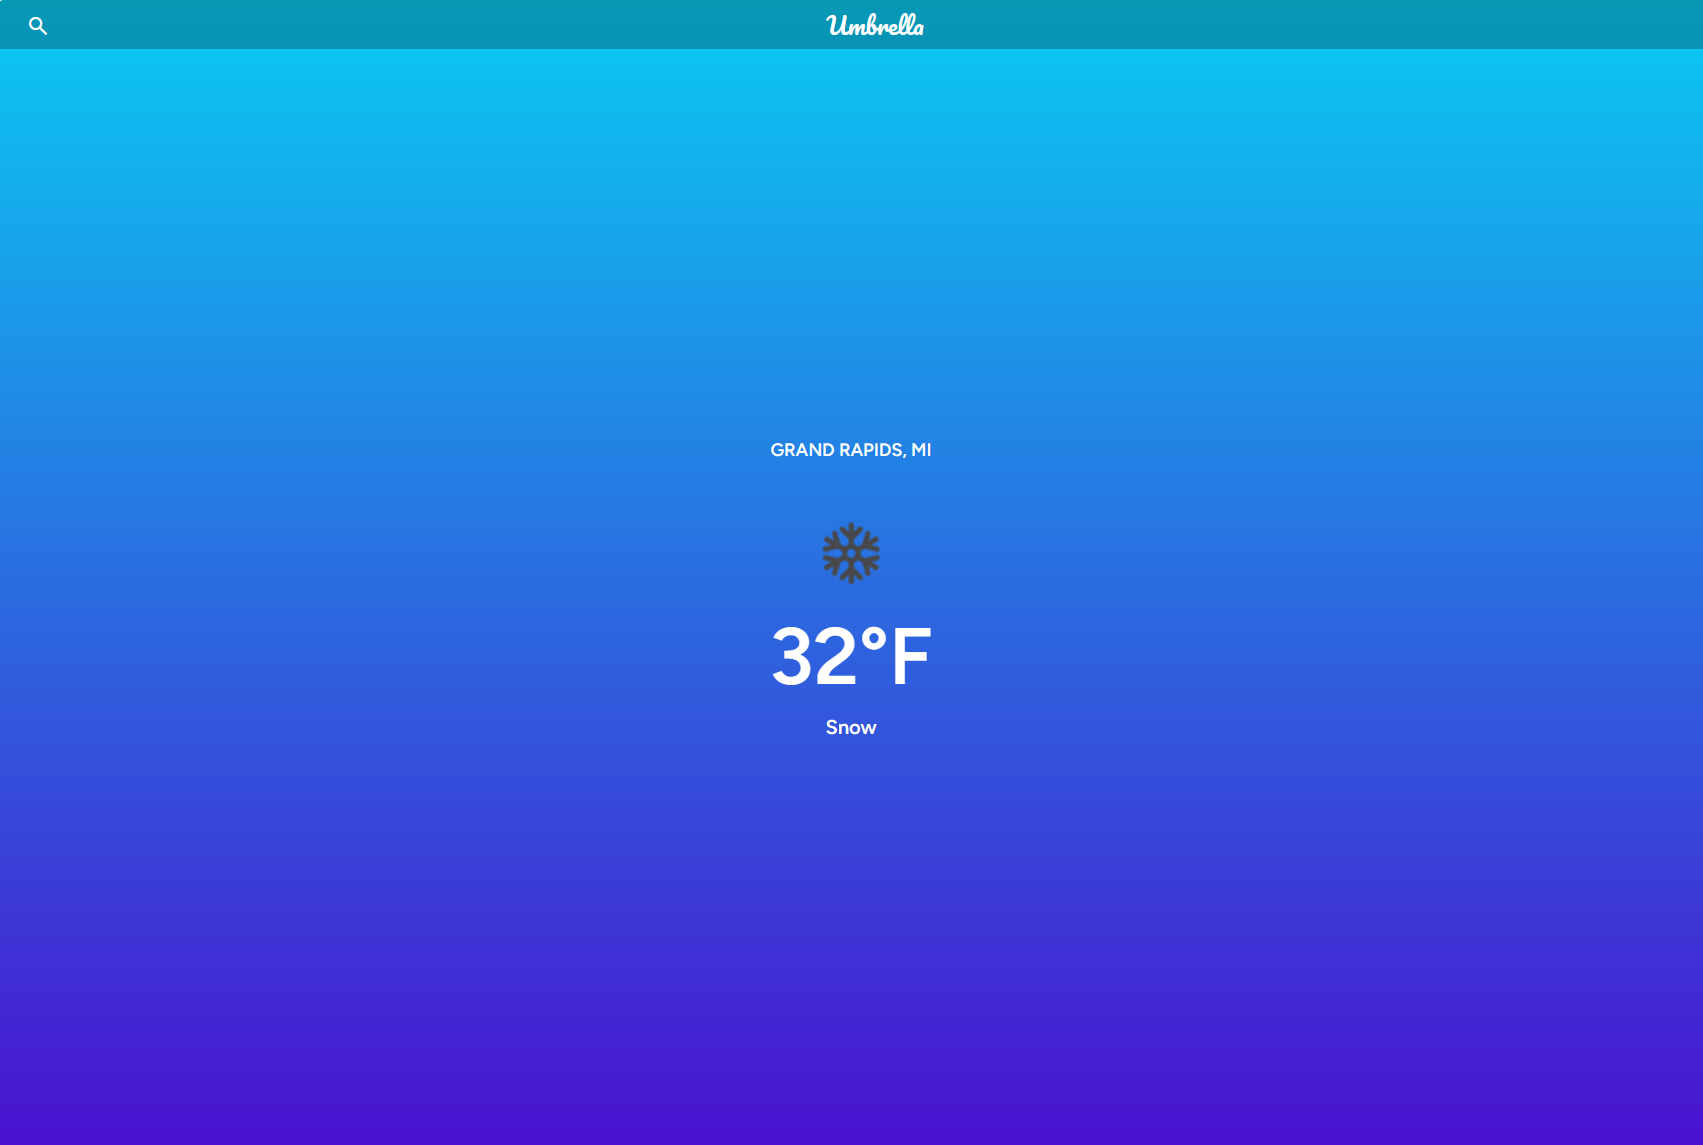
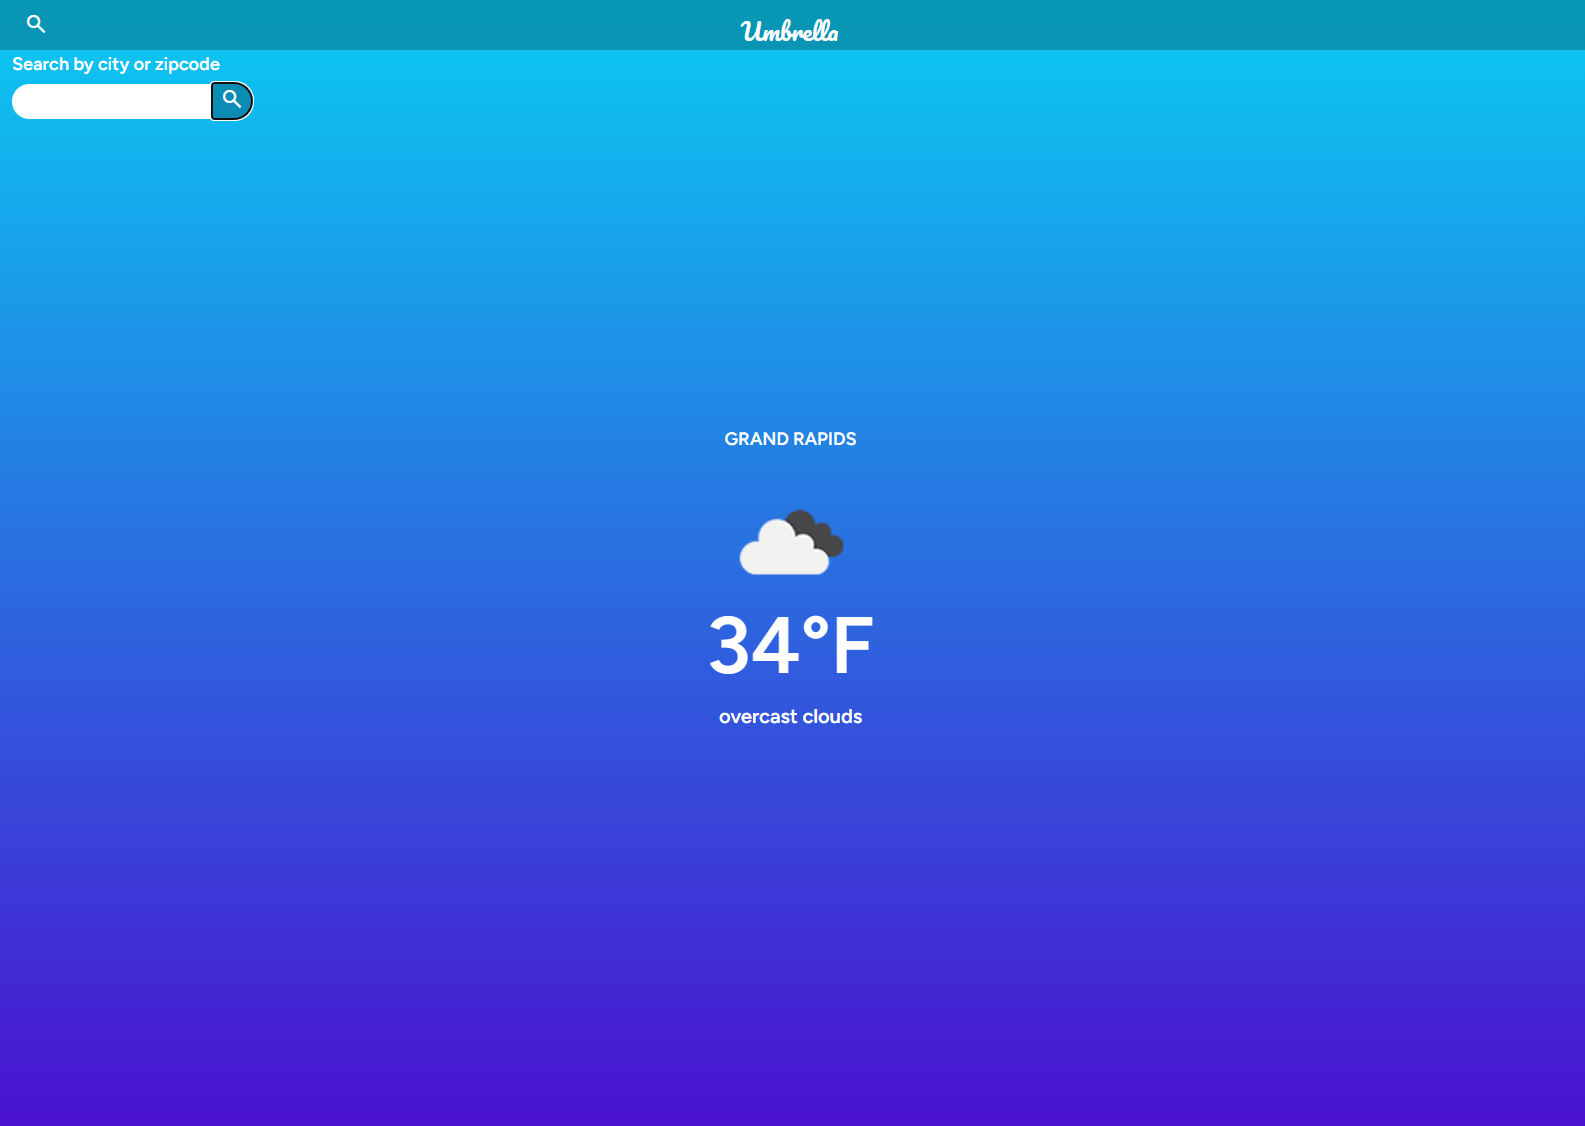
Added new project

diff --git a/src/components/Portfolio.jsx b/src/components/Portfolio.jsx
@@ -1,23 +1,30 @@
 function Portfolio() {
     return(
         <section>
-             <div class = "row">
-                <img src="/Umbrella-Mockup.jpg" class="mx-auto d-block col-12 col-md-12 col-lg-12 p-5"/>
+            <div class = "row">
+                <img src="/Umbrella.png" class="mx-auto d-block col-12 col-md-12 col-lg-12 p-5"/>
                 <h3 class="col-sm-12 col-lg-12">Umbrella Weather App</h3><br/><br/>
+                <p class="col-sm-12 col-lg-12">Umbrella is a single page web application built with React and powered by OpenWeatherMap APIs. 
+                Umbrella allows users to search weather data by city, and it returns the temperature, a weather icon, and the weather description.</p>
                 <p class="col-sm-12 col-lg-12"><a href="https://umbrella-weather.onrender.com" target="blank">Deployed web application</a></p>
                 <p class="col-sm-12 col-lg-12"><a href="https://github.com/beastrobel/umbrella-2.0" target="blank">GitHub repository</a></p> 
             </div> 
             <div class = "row">
-                <img src="/TechBlog.png" class="mx-auto d-block col-12 col-md-12 col-lg-12 p-5"/>
-                <h3 class="col-sm-12 col-lg-12">Tech Blog</h3><br/><br/>
-                <p class="col-sm-12 col-lg-12"><a href="https://tech-blog-42-62e93e33c17a.herokuapp.com/" target="blank">Deployed web application</a></p>
-                <p class="col-sm-12 col-lg-12"><a href="https://github.com/beastrobel/tech-blog" target="blank">GitHub repository</a></p> 
+                <img src="/ProgrammersGuide.png" class="mx-auto d-block col-12 col-md-12 col-lg-12 p-5"/>
+                <h3 class="col-sm-12 col-lg-12">The Programmer's Guide to the Galaxy</h3><br/><br/>
+                <p class="col-sm-12 col-lg-12">The Programmer's Guide to the Galaxy is a full-stack web application built with React, GraphQL, Express and MongoDB,
+                and styled with Chakra UI. I worked collaboratively with other students on this project.</p>
+                <p class="col-sm-12 col-lg-12"><a href="https://programmers-guide-to-the-galaxy.onrender.com/" target="blank">Deployed web application</a></p>
+                <p class="col-sm-12 col-lg-12"><a href="https://github.com/beastrobel/project3" target="blank">GitHub repository</a></p> 
             </div> 
             <div class = "row">
             <video class="mx-auto d-block col-12 col-md-12 col-lg-12 p-5" controls >
                 <source src="social-network-api.webm" type="video/mp4" />
             </video><br/>
                 <h3 class="col-sm-12 col-lg-12">Social Network API</h3><br/><br/>
+                <p class="col-sm-12 col-lg-12">The Social Network API allows the user to view, add, modify, and delete Users, 
+                Thoughts, Reactions, and Friends. The application was developed using NoSQL MongoDB and Express. It uses mongoose models and schemas to 
+                create BSON objects for the social network database. The user is able to perform CRUD operations using Insomnia.</p>
                 <p class="col-sm-12 col-lg-12"><a href="https://github.com/beastrobel/tech-blog" target="blank">GitHub repository</a></p> 
             </div> 
         </section>          

diff --git a/src/components/Home.jsx b/src/components/Home.jsx
@@ -19,7 +19,8 @@ function Home() {
                             <svg aria-hidden="true" class="octicon octicon-mark-github" height="26" version="1.1" viewBox="0 0 16 16" width="26" fill="#899499" ><path fill-rule="evenodd" d="M8 0C3.58 0 0 3.58 0 8c0 3.54 2.29 6.53 5.47 7.59.4.07.55-.17.55-.38 0-.19-.01-.82-.01-1.49-2.01.37-2.53-.49-2.69-.94-.09-.23-.48-.94-.82-1.13-.28-.15-.68-.52-.01-.53.63-.01 1.08.58 1.23.82.72 1.21 1.87.87 2.33.66.07-.52.28-.87.51-1.07-1.78-.2-3.64-.89-3.64-3.95 0-.87.31-1.59.82-2.15-.08-.2-.36-1.02.08-2.12 0 0 .67-.21 2.2.82.64-.18 1.32-.27 2-.27.68 0 1.36.09 2 .27 1.53-1.04 2.2-.82 2.2-.82.44 1.1.16 1.92.08 2.12.51.56.82 1.27.82 2.15 0 3.07-1.87 3.75-3.65 3.95.29.25.54.73.54 1.48 0 1.07-.01 1.93-.01 2.2 0 .21.15.46.55.38A8.013 8.013 0 0 0 16 8c0-4.42-3.58-8-8-8z"></path>
                             </svg>
                         </a>
-                    </div>       
+                    </div>
+                    <img src="/Mockup.jpg" class="img-fluid" /><br/><br/><br/>          
                     <p>With just under 10 years of experience in graphic design and UI/UX, I am a styling expert. 
                     My web dev toolkit includes React.js, Apollo GraphQL, Express.js, MongoDB, MySQL, Node.js,
                     HTML, CSS, Bootstrap, JavaScript and jQuery. Let's work together!</p><br/>
@@ -29,7 +30,7 @@ function Home() {
                     </div>
                 </div>
             </div>
-            <img src="/Umbrella-Mockup.jpg" class="img-fluid" />              
+            
         </section>
     );
 }
